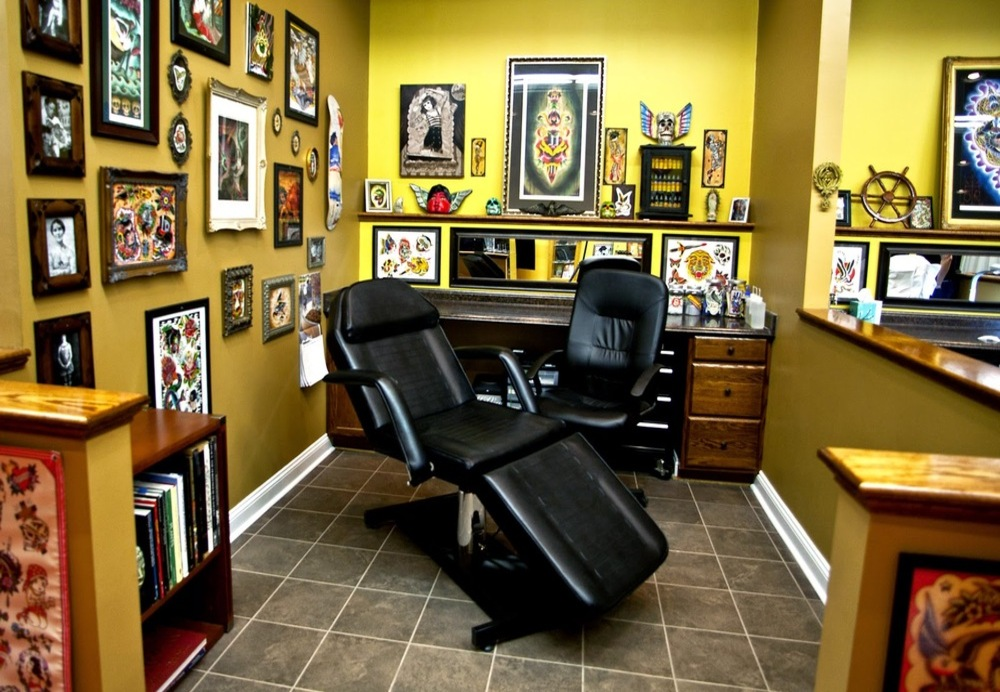
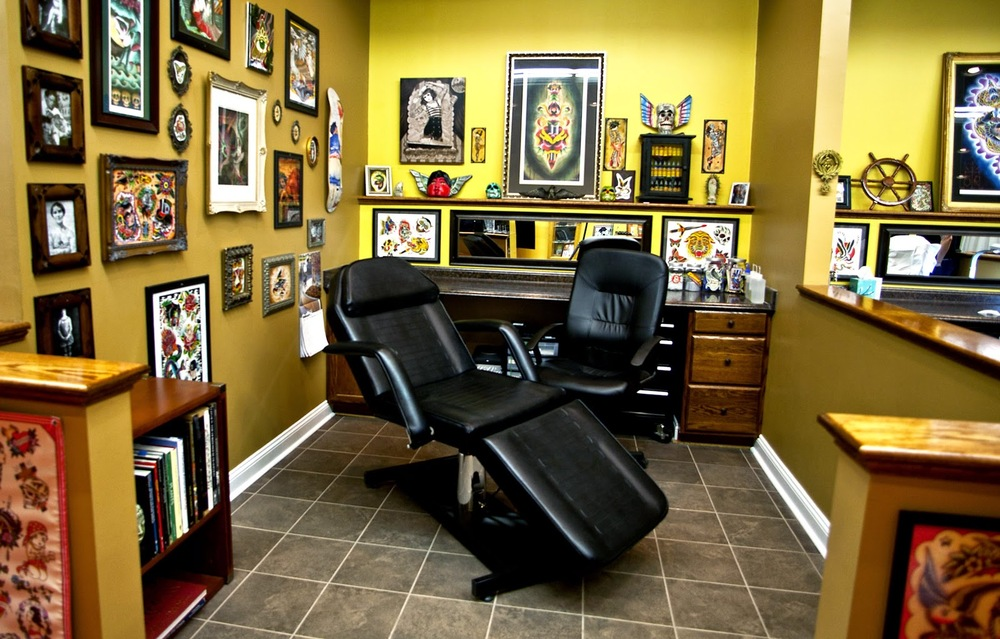
Se arregla tamanio de img en carrusel

diff --git a/prueba.html b/prueba.html
@@ -1,0 +1,49 @@
+<!DOCTYPE html>
+<html lang="en">
+<head>
+    <meta charset="UTF-8">
+    <meta http-equiv="X-UA-Compatible" content="IE=edge">
+    <meta name="viewport" content="width=device-width, initial-scale=1.0">
+    <link href="https://cdn.jsdelivr.net/npm/bootstrap@5.1.3/dist/css/bootstrap.min.css" rel="stylesheet" integrity="sha384-1BmE4kWBq78iYhFldvKuhfTAU6auU8tT94WrHftjDbrCEXSU1oBoqyl2QvZ6jIW3" crossorigin="anonymous">
+    <link rel="stylesheet" href="style.css">
+    <title>Document</title>
+</head>
+<body>
+    
+    <div id="carouselExampleIndicators" class="carousel slide" data-bs-ride="carousel">
+        <div class="carousel-indicators">
+          <button type="button" data-bs-target="#carouselExampleIndicators" data-bs-slide-to="0" class="active" aria-current="true" aria-label="Slide 1"></button>
+          <button type="button" data-bs-target="#carouselExampleIndicators" data-bs-slide-to="1" aria-label="Slide 2"></button>
+          <button type="button" data-bs-target="#carouselExampleIndicators" data-bs-slide-to="2" aria-label="Slide 3"></button>
+        </div>
+        <div class="carousel-inner">
+          <div class="carousel-item active">
+            <img src="https://dummyimage.com/600x300/0e2370/cc22cc" class="d-block w-100" alt="...">
+          </div>
+          <div class="carousel-item">
+            <img src="https://dummyimage.com/600x400/0e2370/cc22cc" class="d-block w-100" alt="...">
+          </div>
+          <div class="carousel-item">
+            <img src="https://dummyimage.com/600x500/0e2370/cc22cc" class="d-block w-100" alt="...">
+          </div>
+        </div>
+        <button class="carousel-control-prev" type="button" data-bs-target="#carouselExampleIndicators" data-bs-slide="prev">
+          <span class="carousel-control-prev-icon" aria-hidden="true"></span>
+          <span class="visually-hidden">Previous</span>
+        </button>
+        <button class="carousel-control-next" type="button" data-bs-target="#carouselExampleIndicators" data-bs-slide="next">
+          <span class="carousel-control-next-icon" aria-hidden="true"></span>
+          <span class="visually-hidden">Next</span>
+        </button>
+      </div>
+
+
+
+
+
+
+
+    <script src="https://cdn.jsdelivr.net/npm/@popperjs/core@2.10.2/dist/umd/popper.min.js" integrity="sha384-7+zCNj/IqJ95wo16oMtfsKbZ9ccEh31eOz1HGyDuCQ6wgnyJNSYdrPa03rtR1zdB" crossorigin="anonymous"></script>
+    <script src="https://cdn.jsdelivr.net/npm/bootstrap@5.1.3/dist/js/bootstrap.min.js" integrity="sha384-QJHtvGhmr9XOIpI6YVutG+2QOK9T+ZnN4kzFN1RtK3zEFEIsxhlmWl5/YESvpZ13" crossorigin="anonymous"></script> 
+</body>
+</html>

diff --git a/style.css b/style.css
@@ -792,4 +792,9 @@ fieldset label {
 }
 
 
-
+.carousel-item img {
+    object-fit: cover;
+    object-position: center;
+    height: 50vh;
+    overflow: hidden;
+  }
